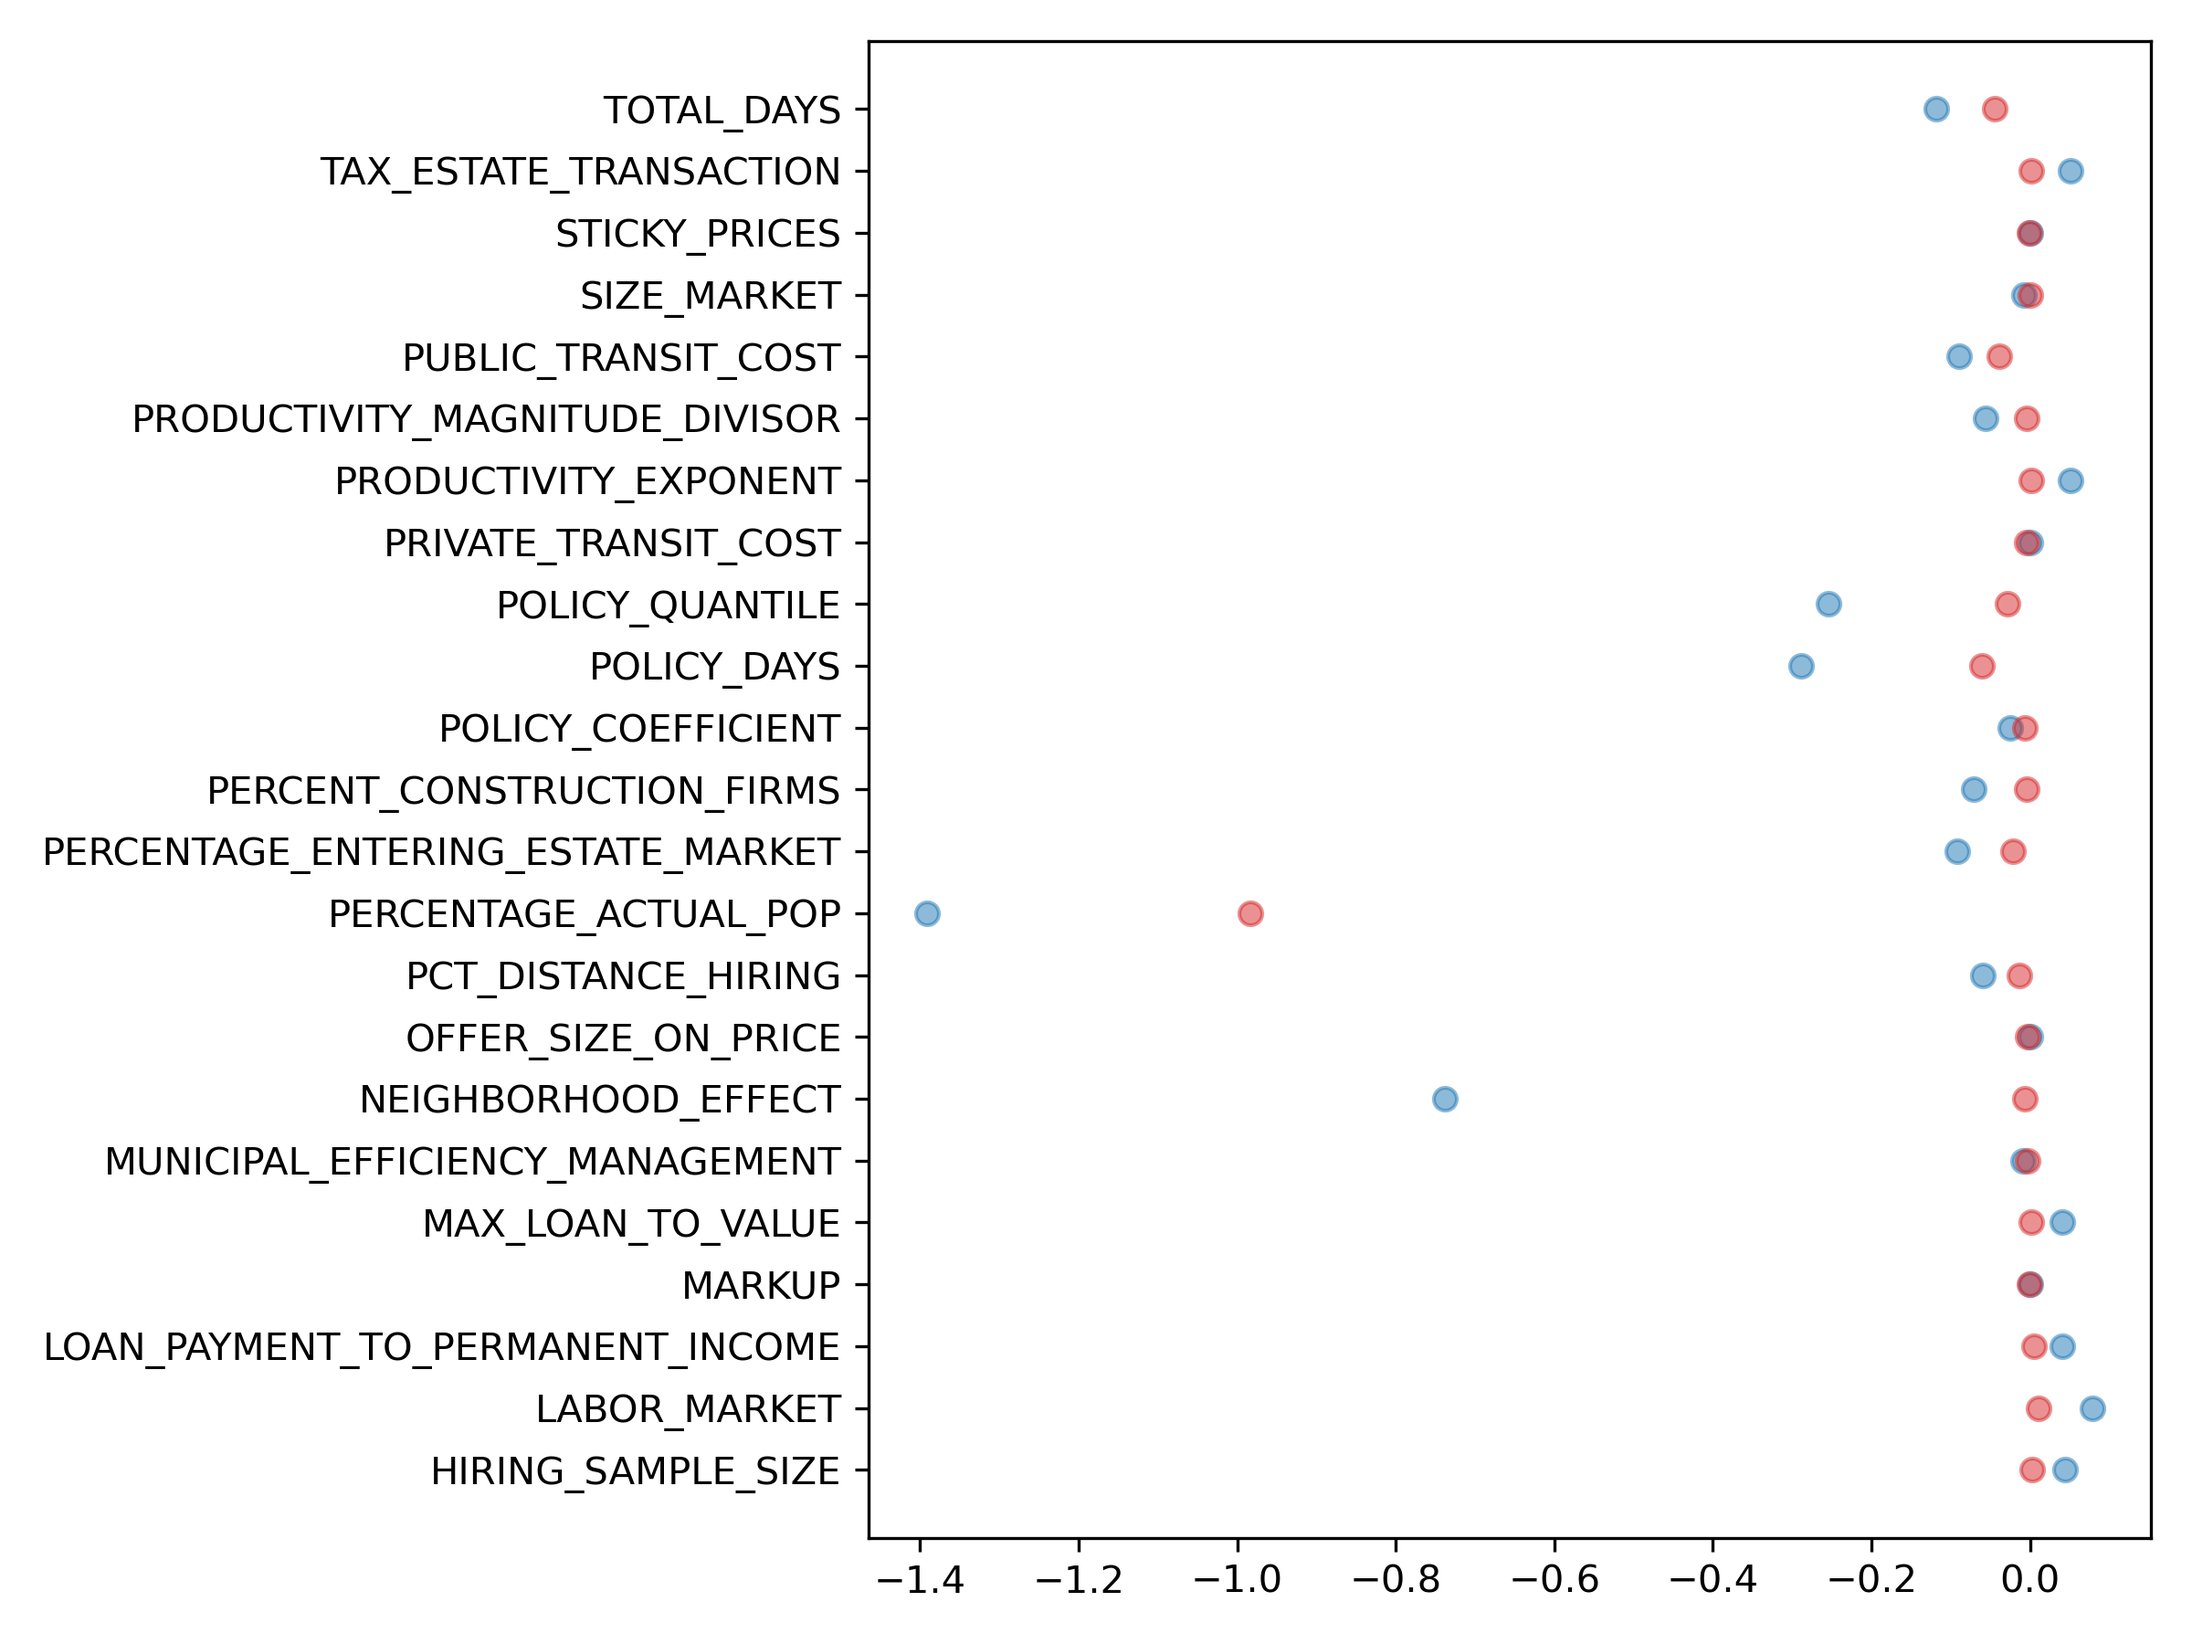
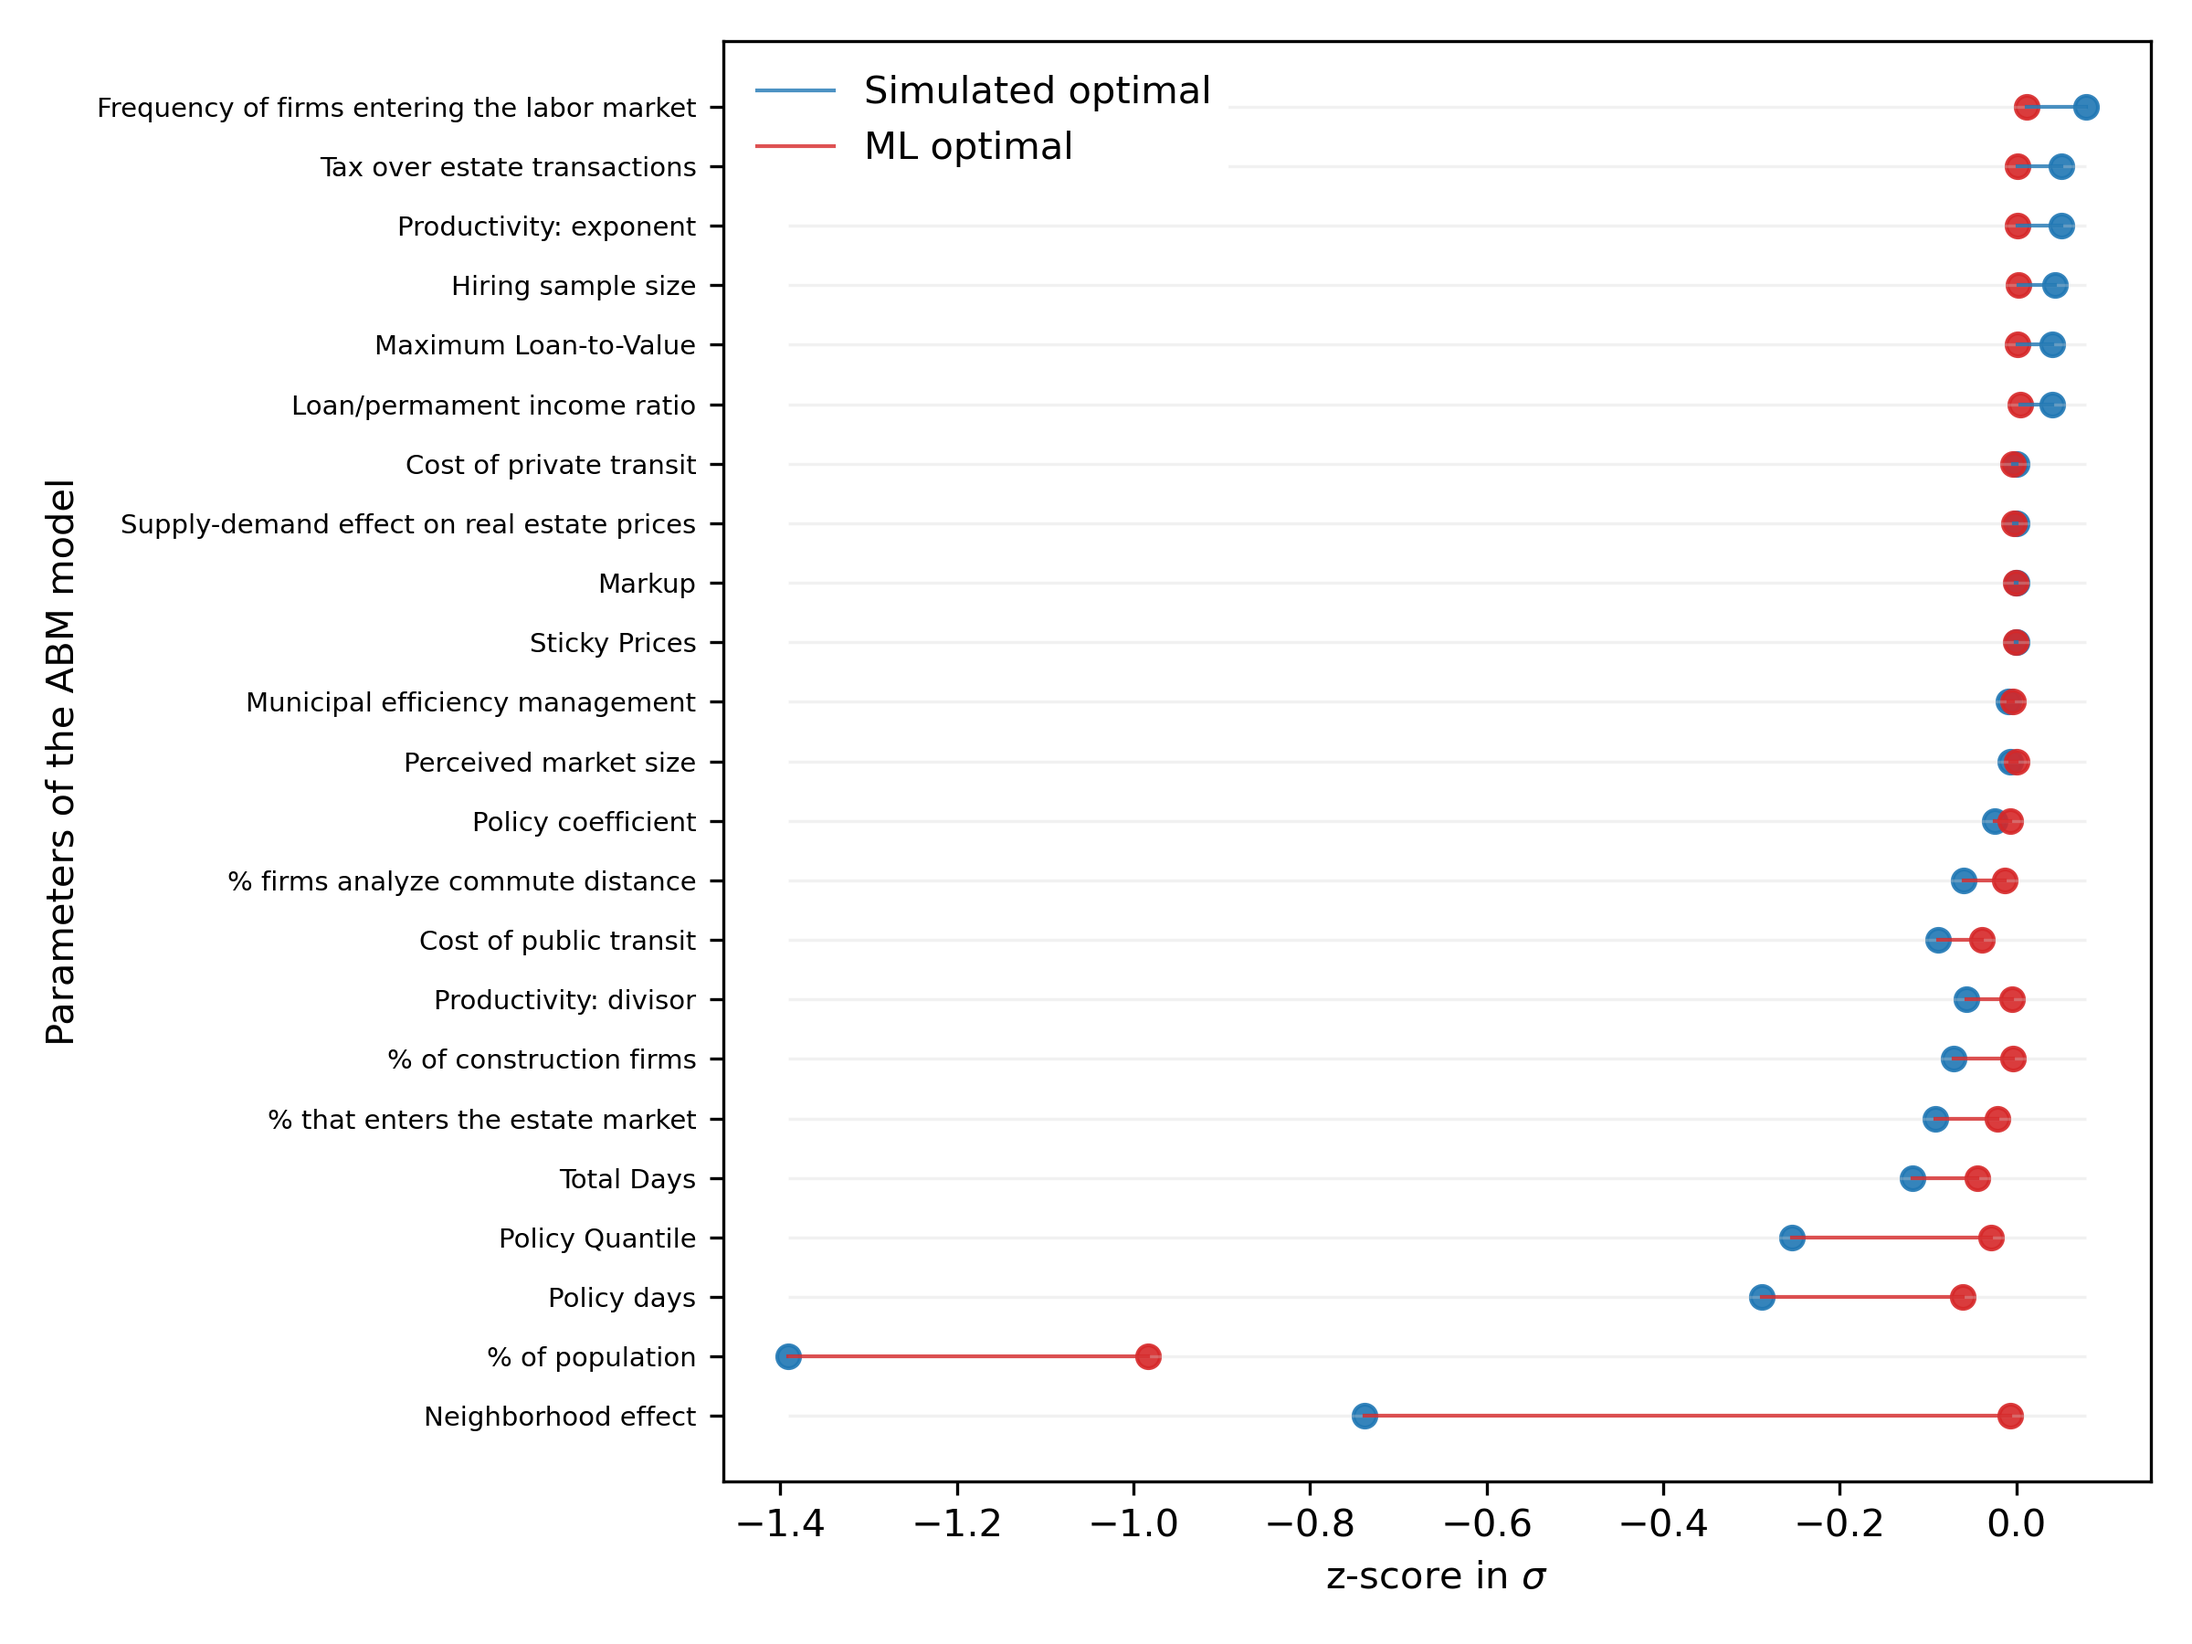
z-score plot

diff --git a/analysis/plot_z_score_parameters.py b/analysis/plot_z_score_parameters.py
@@ -6,22 +6,28 @@ import groups_cols
 colors = ['tab:blue', 'tab:red']
 
 
-def plotting(data, name='name'):
-    # lbsl = [groups_cols.abm_dummies_show[l] for l in data.index.tolist()]
+def plotting(data, col1='simulated_optimal', col2='ml_optimal', name='name'):
+    lbsl = [groups_cols.abm_params_show[l] for l in data.index.tolist()]
     fig, ax = plt.subplots(figsize=(8, 6))
     for par in data.index:
-        for i, each in enumerate(['simulated_optimal', 'ml_optimal']):
-            ax.scatter(data.loc[par, each], par, color=colors[i], alpha=.5, marker='o')
-    # plt.vlines(x=range(len(lbsl)), ymin=0, ymax=1, colors='lightgrey', lw=.8, alpha=.3)
-    # plt.xticks(range(len(lbsl)), lbsl, rotation='vertical', fontsize=7)
-    # ax.legend(['Purchase', 'Rent vouchers', 'Monetary aid', 'no-policy baseline'],
-    #           edgecolor='white', loc='upper center', facecolor='white', framealpha=1)
-    # plt.ylabel("Percentage of Metropolitan Regions' optimal cases per policy")
-    # leg = ax.get_legend()
+        plt.hlines(par,
+                   xmin=min(min(d[col1]), min(d[col2])),
+                   xmax=max(max(d[col1]), max(d[col2])),
+                   colors='lightgrey', lw=.8, alpha=.3)
+        ax.plot([data.loc[par, col1], data.loc[par, col2]], [par, par],
+                color=colors[0] if data.loc[par, col1] > data.loc[par, col2]
+                else colors[1], lw=1, alpha=.8)
+        for i, each in enumerate([col1, col2]):
+            ax.scatter(data.loc[par, each], par, color=colors[i], alpha=.9, marker='o')
+
+    plt.yticks(range(len(lbsl)), lbsl, fontsize=7)
+    ax.legend(['Simulated optimal', 'ML optimal'], edgecolor='white', facecolor='white', framealpha=1)
+    plt.ylabel("Parameters of the ABM model")
+    plt.xlabel(f"z-score in $\sigma$")
+    leg = ax.get_legend()
     # # hl_dict = {handle.get_label(): handle for handle in leg.legendHandles}
-    #
-    # for i in range(len(colors)):
-    #     leg.legendHandles[i].set_color(colors[i])
+    for i in range(len(colors)):
+        leg.legendHandles[i].set_color(colors[i])
     plt.tight_layout()
     plt.savefig(f'parameters.png', dpi=300)
     plt.show()
@@ -31,5 +37,6 @@ if __name__ == '__main__':
     d = pd.read_csv('../pre_processed_data/parameters_comparison.csv', sep=';')
     d.rename(columns={'Unnamed: 0': 'parameters'}, inplace=True)
     d = d.set_index('parameters')
+    d = d.sort_values(by='difference')
     plotting(d)
 
